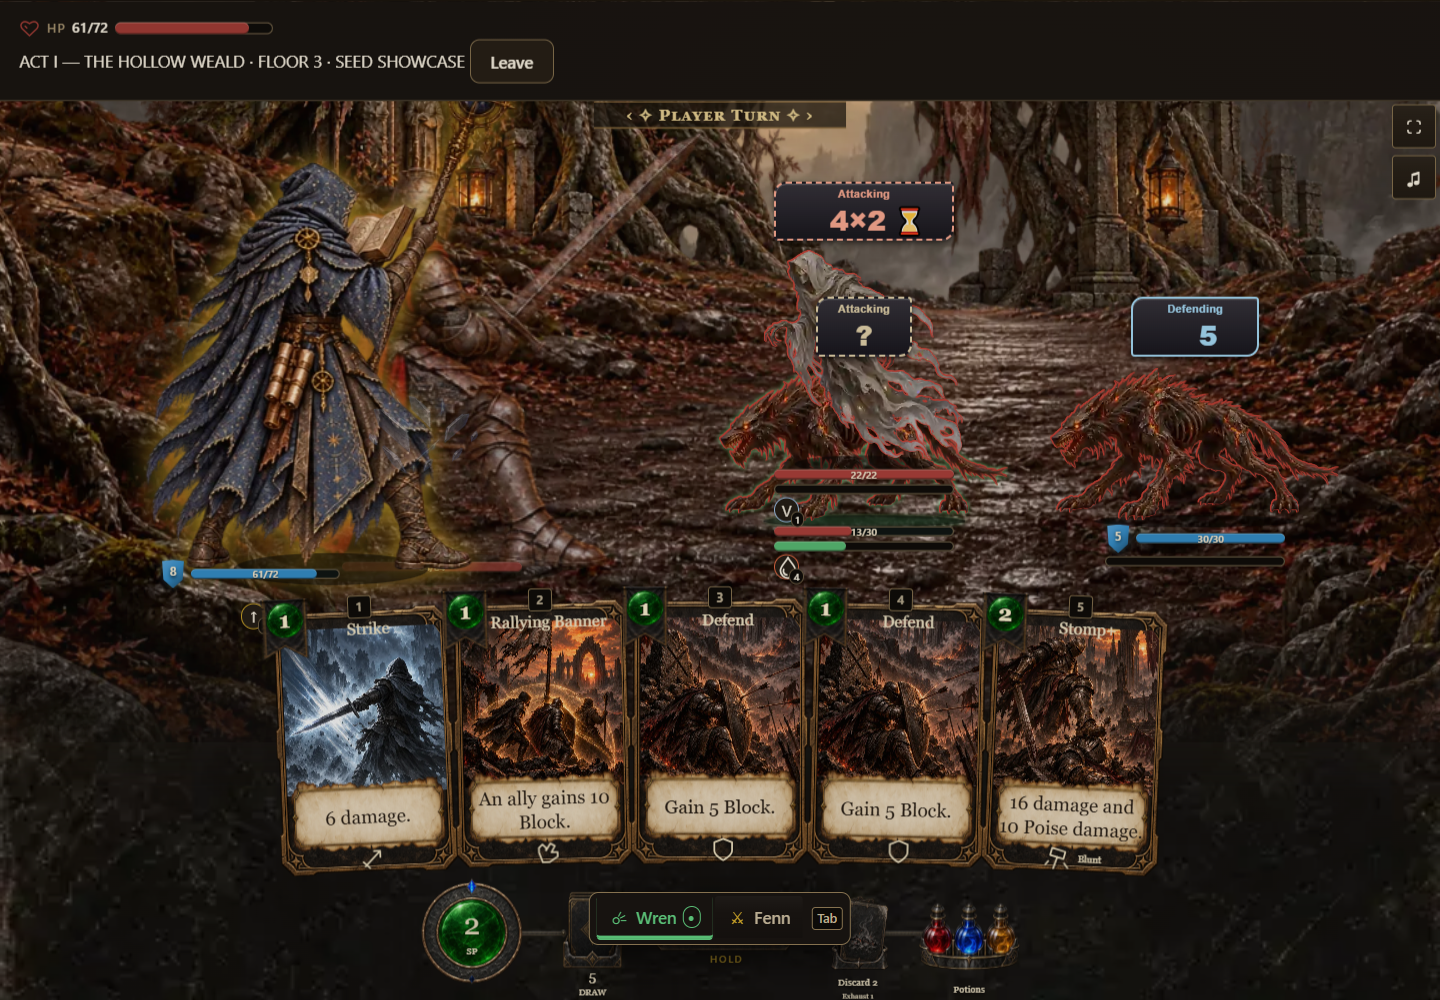
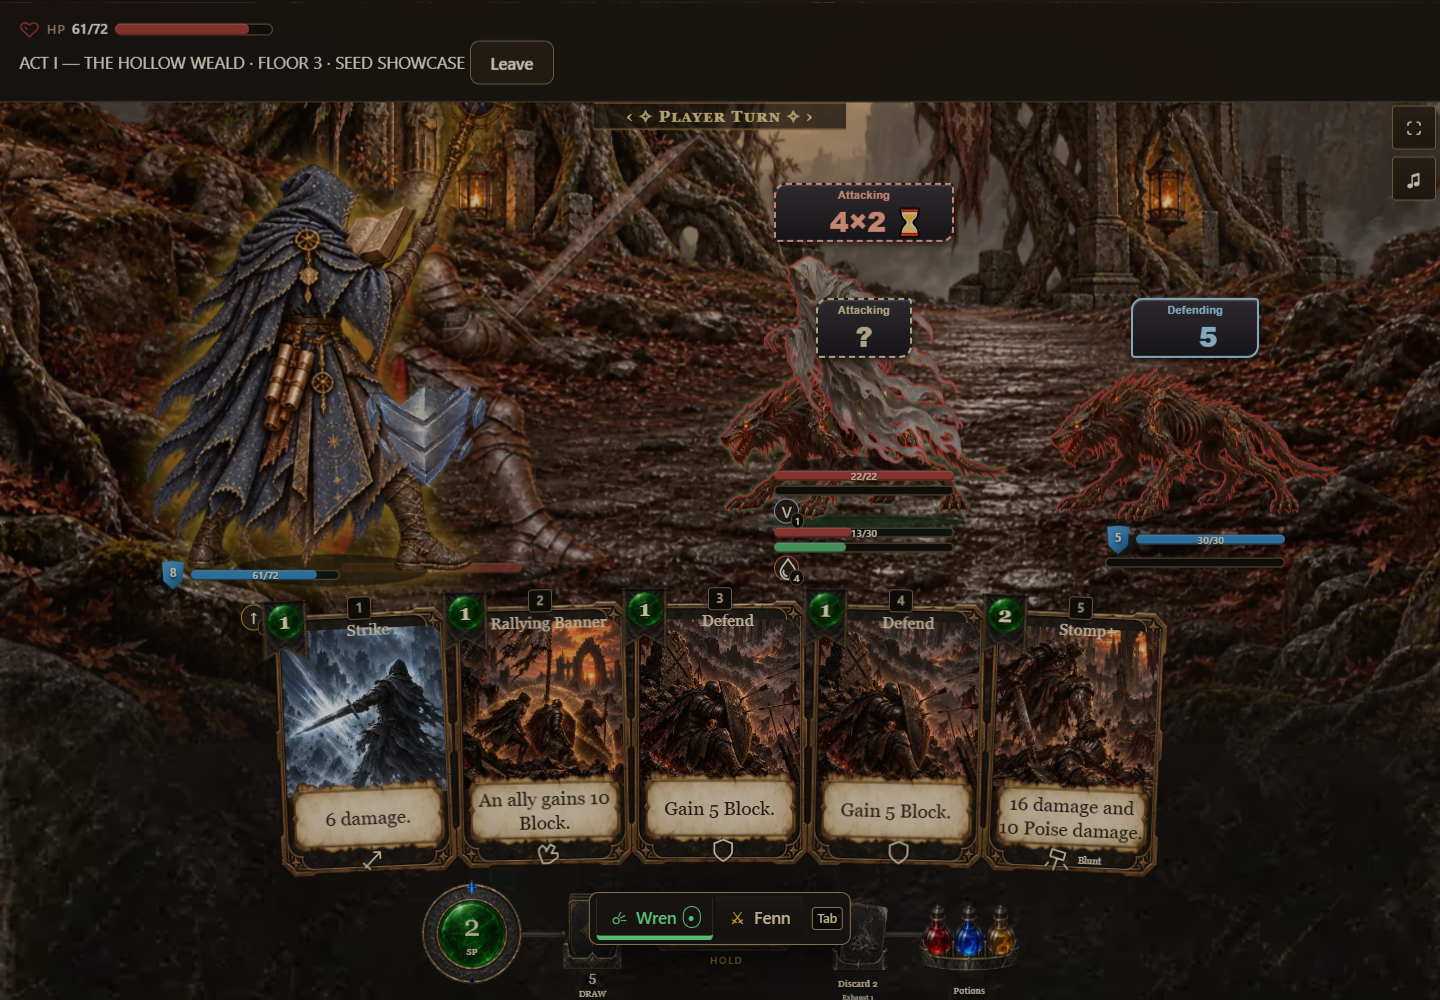
Record stance build receipt and packaged desktop phone checks

diff --git a/src/content/changelog.generated.js b/src/content/changelog.generated.js
@@ -3,6 +3,16 @@
 
 export const GENERATED_CHANGELOG = Object.freeze([
   {
+    "id": "pr-1745",
+    "date": "2026-10-08",
+    "group": "2026-10-08",
+    "summary": "Alternative heroes hold their selected combat poses",
+    "detail": "Reaver, Rogue, Starseer and Herald use the twelve chosen Attack, Defend and Prepare poses after card actions. Books and defensive guards follow the selected artwork. Each co-op player keeps their own pose until their next turn; counters keep their existing presentation for a later selection pass.",
+    "build": "0.7.1.1142",
+    "pullRequest": 1745,
+    "url": "https://github.com/cehinds/AshenSpire/pull/1745"
+  },
+  {
     "id": "pr-1737",
     "date": "2026-10-08",
     "group": "2026-10-08",

diff --git a/pose-studio/stances/selected-validation/README.md b/pose-studio/stances/selected-validation/README.md
@@ -1,0 +1,33 @@
+# Selected stance integration evidence
+
+`pack-qa.json` records the packaged game check at 1440×1000 and fresh 390×844
+phone viewports. All twelve selected poses follow real card input through the
+combat controller. Phone checks additionally verify each class requests its
+Lite casting frame. Co-op checks feed the existing screenshot socket with
+confirmed host receipts, verify independent seats and clear only the seat
+whose next turn starts. These are controlled combat fixtures, not full runs
+or physical-phone acceptance.
+
+The screenshots show the selected Starseer casting pose, Rogue casting on a
+phone viewport, and different held poses on the co-op board. The tested game
+content was build 0.7.1.1141; 1142 adds the PR's generated changelog receipt.
+
+No unexpected request or JavaScript errors occurred. The report retains the
+known optional audio-sample probes (the existing procedural audio fallback)
+and Chromium's vibration notices before pointer activation.
+
+Reproduce with a running source or packaged game:
+
+```powershell
+$env:STANCE_GAME_URL='http://127.0.0.1:4393/build/AshenSpire.html'
+node tools/alternative-selected-stances-qa.mjs
+```
+
+`PLAYWRIGHT_MODULE`, `CHROME` and `STANCE_QA_OUT` configure the installed
+browser tooling and evidence destination. The original source-game results
+are retained in `game-qa.json` and `coop-qa.json`.
+
+The four focused stance/action test files pass 19 tests, including selection
+hashes, Full/Lite pack inclusion, action completion, defeat/revival, reduced
+motion, existing counter presentation and load retry. Counter artwork and
+additional armour/enemy variants remain separate work.

diff --git a/CHANGELOG.md b/CHANGELOG.md
@@ -34,6 +34,8 @@ A receipt here names the pull request that landed a change; inventing one to fit
 
 ## 2026-10-08
 
+- **Alternative heroes hold their selected combat poses** ([#1745](https://github.com/cehinds/AshenSpire/pull/1745), `0.7.1.1142`). Reaver, Rogue, Starseer and Herald use the twelve chosen Attack, Defend and Prepare poses after card actions. Books and defensive guards follow the selected artwork. Each co-op player keeps their own pose until their next turn; counters keep their existing presentation for a later selection pass.
+
 - **Alternative tutorial controls stay reachable** ([#1737](https://github.com/cehinds/AshenSpire/pull/1737), `0.7.1.1140`). Next and Skip avoid cards, combat controls and fighter targets on small screens while instructions allow card plays. Current combat prices and save checkpoints join the distinct sigils and complete effects, preserving the alternative battlefield art and animations.
 
 - **Alternative cards show action and school sigils** ([#1731](https://github.com/cehinds/AshenSpire/pull/1731), `0.7.1.1134`). Alternative combat keeps its battlefield artwork and class weapon animations while gaining the distinct monochrome marks, written damage types and complete adaptive effects. Information explains the marks and retains detailed tags, with both development histories preserved.
